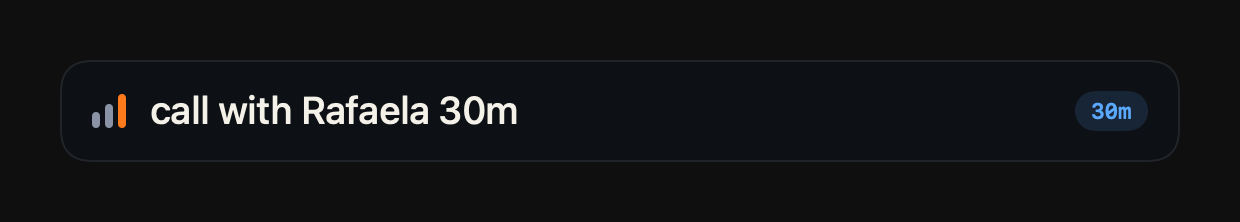
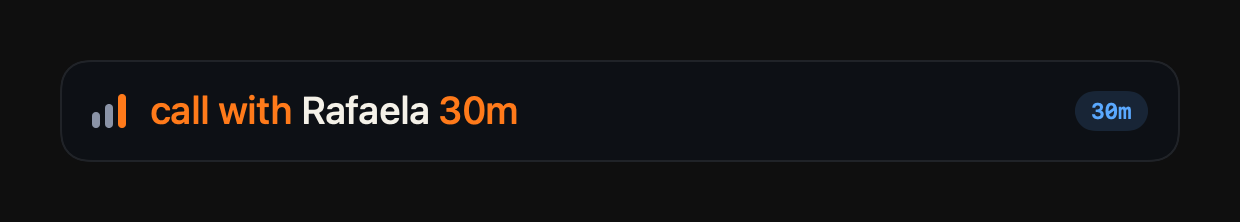
Quick add colors what it recognised; drop the "est" labels
- The line's opener ("call with") and its trailing duration render in the
  accent while you type, so a command is visible the moment it lands.
  SwiftUI's TextField paints one colour at a time, so the field is an AppKit
  NSTextField underneath, recoloured in the field editor's own storage to keep
  the caret and selection intact. allowsEditingTextAttributes is what stops
  the editor flattening the attributed string back to one colour on focus.
- Parsing now returns the ranges it used, so the highlighter and the parser
  can't drift apart, and the headless renderer paints the same colours.
- Row chips drop the "est " prefix — grey is the estimate, coloured is the
  actual, and the words were doing nothing the colour wasn't.
- Dev hook: `Volume --quickadd "<line>"` opens the panel prefilled.

Changed region(s): [[0.1226, 0.4324, 0.2452, 0.5676], [0.3371, 0.4324, 0.429, 0.5676]]

diff --git a/Sources/Volume/QuickAdd.swift b/Sources/Volume/QuickAdd.swift
@@ -40,9 +40,10 @@ final class QuickAdd: NSObject, NSWindowDelegate {
         if panel != nil { close() } else { show() }
     }
 
-    func show() {
+    func show(prefill: String = "") {
         guard let store, panel == nil else { return }
         let view = QuickAddView(
+            initialText: prefill,
             onAdd: { [weak self] kind, title, minutes in
                 switch kind {
                 case .task: store.addPlanned(title: title, estimateMin: minutes)
@@ -132,7 +133,6 @@ struct QuickAddView: View {
     let onCancel: () -> Void
 
     @State private var text: String
-    @FocusState private var focused: Bool
 
     init(initialText: String = "", onAdd: @escaping (Kind, String, Int) -> Void, onCancel: @escaping () -> Void) {
         self.onAdd = onAdd
@@ -140,25 +140,24 @@ struct QuickAddView: View {
         _text = State(initialValue: initialText)
     }
 
-    private var parsed: (kind: Kind, title: String, minutes: Int)? { Self.parse(text) }
+    private var line: QuickAddLine { QuickAddParser.read(text) }
 
     var body: some View {
+        let parsed = line
         HStack(spacing: 12) {
             BarsGlyph()
             if Theme.isRendering {
-                Text(text.isEmpty ? "task + time" : text)
+                Text(text.isEmpty
+                     ? AttributedString("task + time")
+                     : AttributedString(QuickAddSyntax.attributed(text)))
                     .font(.system(size: 19, weight: .medium))
-                    .foregroundStyle(Theme.text)
+                    .foregroundStyle(text.isEmpty ? Theme.faint : Theme.text)
                     .frame(maxWidth: .infinity, alignment: .leading)
             } else {
-                TextField("task + time", text: $text)
-                    .textFieldStyle(.plain)
-                    .font(.system(size: 19, weight: .medium))
-                    .foregroundStyle(Theme.text)
-                    .focused($focused)
-                    .onSubmit { submit() }
+                HighlightedField(text: $text, onSubmit: submit, onCancel: onCancel)
+                    .frame(maxWidth: .infinity)
             }
-            if let p = parsed {
+            if let p = parsed.result {
                 Chip(text: TimeParse.format(p.minutes),
                      color: p.kind == .call ? Theme.call : Theme.accent)
             }
@@ -169,38 +168,95 @@ struct QuickAddView: View {
         .background(Theme.bg, in: RoundedRectangle(cornerRadius: 14))
         .overlay(RoundedRectangle(cornerRadius: 14).strokeBorder(Theme.hairline))
         .environment(\.colorScheme, Theme.mode)
-        .onAppear {
-            DispatchQueue.main.asyncAfter(deadline: .now() + 0.05) { focused = true }
-        }
         .onExitCommand { onCancel() }
     }
 
     private func submit() {
-        guard let p = parsed else { return }
+        guard let p = line.result else { return }
         onAdd(p.kind, p.title, p.minutes)
     }
 
+    static func parse(_ raw: String) -> (kind: Kind, title: String, minutes: Int)? {
+        QuickAddParser.read(raw).result
+    }
+}
+
+/// What the parser makes of one line — including where it found the parts, so
+/// the field can color exactly the runs it is going to act on.
+struct QuickAddLine {
+    var kind: Kind = .task
+    var title = ""
+    var minutes: Int?
+    /// The "call with" that turns this into a meeting.
+    var openerRange: NSRange?
+    /// The duration lifted off the end.
+    var durationRange: NSRange?
+
+    var accentRanges: [NSRange] { [openerRange, durationRange].compactMap { $0 } }
+
+    var result: (kind: Kind, title: String, minutes: Int)? {
+        guard let minutes, !title.isEmpty else { return nil }
+        return (kind, title, minutes)
+    }
+}
+
+enum QuickAddParser {
     /// A line that opens with "call with" (or the obvious variants) is a
     /// meeting: it lands as call time, already done, instead of an estimate
     /// waiting in Up next.
-    private static let callOpeners = ["call with", "call w/", "meeting with", "meeting w/"]
+    static let callOpeners = ["call with", "call w/", "meeting with", "meeting w/"]
 
     /// "review creatives 1h 30m" → (.task, "review creatives", 90). Tries the
     /// last two tokens as a duration first, then the last one.
-    static func parse(_ raw: String) -> (kind: Kind, title: String, minutes: Int)? {
-        let tokens = raw.split(whereSeparator: \.isWhitespace).map(String.init)
-        guard tokens.count >= 2 else { return nil }
-        let opener = tokens.joined(separator: " ").lowercased()
-        let kind: Kind = callOpeners.contains(where: opener.hasPrefix) ? .call : .task
-        for take in [2, 1] where tokens.count > take {
-            let tail = Array(tokens.suffix(take))
-            if take == 2, !validTwoTokenTail(tail[0], tail[1]) { continue }
-            if let m = TimeParse.minutes(from: tail.joined(separator: " ")) {
-                let title = tokens.dropLast(take).joined(separator: " ")
-                if !title.isEmpty { return (kind, title, m) }
-            }
+    static func read(_ raw: String) -> QuickAddLine {
+        var line = QuickAddLine()
+
+        let indent = raw.prefix { $0.isWhitespace }
+        let body = String(raw.dropFirst(indent.count)).lowercased()
+        for opener in callOpeners where body.hasPrefix(opener) {
+            line.kind = .call
+            line.openerRange = NSRange(location: indent.utf16.count, length: opener.utf16.count)
+            break
         }
-        return nil
+
+        let words = tokens(raw)
+        guard words.count >= 2 else { return line }
+        for take in [2, 1] where words.count > take {
+            let tail = Array(words.suffix(take))
+            if take == 2, !validTwoTokenTail(tail[0].text, tail[1].text) { continue }
+            guard let m = TimeParse.minutes(from: tail.map(\.text).joined(separator: " ")) else { continue }
+            let title = words.dropLast(take).map(\.text).joined(separator: " ")
+            if title.isEmpty { continue }
+            line.title = title
+            line.minutes = m
+            let start = tail[0].range.location
+            line.durationRange = NSRange(location: start,
+                                         length: tail[take - 1].range.upperBound - start)
+            break
+        }
+        return line
+    }
+
+    /// Words with their place in the line, so a run can be colored where it sits.
+    private static func tokens(_ raw: String) -> [(text: String, range: NSRange)] {
+        var out: [(String, NSRange)] = []
+        var start: String.Index?
+        var i = raw.startIndex
+        while i < raw.endIndex {
+            if raw[i].isWhitespace {
+                if let s = start {
+                    out.append((String(raw[s..<i]), NSRange(s..<i, in: raw)))
+                    start = nil
+                }
+            } else if start == nil {
+                start = i
+            }
+            i = raw.index(after: i)
+        }
+        if let s = start {
+            out.append((String(raw[s...]), NSRange(s..<raw.endIndex, in: raw)))
+        }
+        return out
     }
 
     /// "1h" + "30m" or "2" + "hours" are one duration; "4" + "30m" is not —
@@ -210,5 +266,117 @@ struct QuickAddView: View {
         let aHasUnit = a.contains(where: \.isLetter)
         let bHasDigit = b.contains(where: \.isNumber)
         return bIsUnitWord || (aHasUnit && bHasDigit)
+    }
+}
+
+/// One place that decides how a line looks, used by the live field and by the
+/// headless renderer alike.
+enum QuickAddSyntax {
+    static let font = NSFont.systemFont(ofSize: 19, weight: .medium)
+
+    static var base: [NSAttributedString.Key: Any] {
+        [.font: font, .foregroundColor: NSColor(Theme.text)]
+    }
+
+    static func attributed(_ raw: String) -> NSAttributedString {
+        let s = NSMutableAttributedString(string: raw, attributes: base)
+        apply(to: s)
+        return s
+    }
+
+    static func apply(to storage: NSMutableAttributedString) {
+        let all = NSRange(location: 0, length: storage.length)
+        storage.setAttributes(base, range: all)
+        for r in QuickAddParser.read(storage.string).accentRanges where r.upperBound <= storage.length {
+            storage.addAttribute(.foregroundColor, value: NSColor(Theme.accent), range: r)
+        }
+    }
+}
+
+/// SwiftUI's TextField paints one color at a time, so the recognised parts of
+/// the line — the opener, the duration — need an AppKit field underneath.
+struct HighlightedField: NSViewRepresentable {
+    @Binding var text: String
+    var onSubmit: () -> Void
+    var onCancel: () -> Void
+
+    func makeNSView(context: Context) -> NSTextField {
+        let field = NSTextField()
+        field.isBordered = false
+        field.drawsBackground = false
+        field.focusRingType = .none
+        field.font = QuickAddSyntax.font
+        field.delegate = context.coordinator
+        field.cell?.usesSingleLineMode = true
+        field.cell?.wraps = false
+        field.cell?.isScrollable = true
+        // Without this the field editor flattens the attributed string back to
+        // one colour the moment editing starts.
+        field.allowsEditingTextAttributes = true
+        field.setContentHuggingPriority(.defaultLow, for: .horizontal)
+        field.setContentCompressionResistancePriority(.defaultLow, for: .horizontal)
+        field.placeholderAttributedString = NSAttributedString(
+            string: "task + time",
+            attributes: [.font: QuickAddSyntax.font, .foregroundColor: NSColor(Theme.faint)])
+        field.attributedStringValue = QuickAddSyntax.attributed(text)
+        return field
+    }
+
+    func updateNSView(_ field: NSTextField, context: Context) {
+        context.coordinator.parent = self
+        if field.stringValue != text {
+            field.attributedStringValue = QuickAddSyntax.attributed(text)
+        }
+        if !context.coordinator.tookFocus {
+            context.coordinator.tookFocus = true
+            DispatchQueue.main.async {
+                field.window?.makeFirstResponder(field)
+                // Taking first responder selects the whole line; put the caret
+                // at the end so you carry on typing instead of overwriting.
+                let end = (field.stringValue as NSString).length
+                field.currentEditor()?.selectedRange = NSRange(location: end, length: 0)
+                context.coordinator.recolor(field)
+            }
+        }
+    }
+
+    func makeCoordinator() -> Coordinator { Coordinator(self) }
+
+    final class Coordinator: NSObject, NSTextFieldDelegate {
+        var parent: HighlightedField
+        var tookFocus = false
+
+        init(_ parent: HighlightedField) { self.parent = parent }
+
+        func controlTextDidChange(_ note: Notification) {
+            guard let field = note.object as? NSTextField else { return }
+            parent.text = field.stringValue
+            recolor(field)
+        }
+
+        /// Recolors the field editor in place: replacing the whole string would
+        /// drop the caret to the end on every keystroke.
+        func recolor(_ field: NSTextField) {
+            guard let editor = field.currentEditor() as? NSTextView,
+                  let storage = editor.textStorage else { return }
+            let selection = editor.selectedRange()
+            editor.insertionPointColor = NSColor(Theme.accent)
+            QuickAddSyntax.apply(to: storage)
+            editor.typingAttributes = QuickAddSyntax.base
+            editor.setSelectedRange(selection)
+        }
+
+        func control(_ control: NSControl, textView: NSTextView, doCommandBy selector: Selector) -> Bool {
+            switch selector {
+            case #selector(NSResponder.insertNewline(_:)):
+                parent.onSubmit()
+                return true
+            case #selector(NSResponder.cancelOperation(_:)):
+                parent.onCancel()
+                return true
+            default:
+                return false
+            }
+        }
     }
 }

diff --git a/Sources/Volume/Components.swift b/Sources/Volume/Components.swift
@@ -428,7 +428,7 @@ struct PlannedRow: View {
                     .lineLimit(1)
                 NoteMark(hasNotes: !isOpen && entry.notes?.isEmpty == false)
                 Spacer(minLength: 8)
-                Chip(text: "est \(TimeParse.format(entry.estimateMin ?? 0))", color: Theme.ghost)
+                Chip(text: TimeParse.format(entry.estimateMin ?? 0), color: Theme.ghost)
                 AccentButton(title: "Done", action: onDone)
             }
         } drawer: {
@@ -474,7 +474,7 @@ struct DoneRow: View {
                 NoteMark(hasNotes: !isOpen && entry.notes?.isEmpty == false)
                 Spacer(minLength: 8)
                 if entry.kind == .task, let est = entry.estimateMin {
-                    Chip(text: "est \(TimeParse.format(est))", color: Theme.ghost)
+                    Chip(text: TimeParse.format(est), color: Theme.ghost)
                 }
                 if let act = entry.actualMin {
                     Chip(text: TimeParse.format(act), color: resultColor)

diff --git a/Sources/Volume/VolumeApp.swift b/Sources/Volume/VolumeApp.swift
@@ -25,6 +25,16 @@ struct VolumeApp: App {
         let s = Store()
         _store = StateObject(wrappedValue: s)
         QuickAdd.shared.configure(store: s)
+        // Dev hook: open the quick-add panel straight away, prefilled, so its
+        // syntax colouring can be reviewed without reaching for the hotkey.
+        if let i = CommandLine.arguments.firstIndex(of: "--quickadd") {
+            let line = CommandLine.arguments.indices.contains(i + 1) ? CommandLine.arguments[i + 1] : ""
+            // After the main window has settled, or it takes key back and the
+            // panel closes itself on resign.
+            DispatchQueue.main.asyncAfter(deadline: .now() + 1.5) {
+                QuickAdd.shared.show(prefill: line)
+            }
+        }
         CalendarSync.shared.configure(store: s)
         s.tagPending()
     }

diff --git a/README.md b/README.md
@@ -64,9 +64,11 @@ Type `review creatives 30m`, Enter. Tab opens the full app.
 
 ![Quick add](assets/screenshots/quickadd.png)
 
-Open the line with `call with …` (or `meeting with …`) and it logs as call time
-already done, rather than an estimate waiting in Up next. The chip turns blue
-so you can see which one you're about to get.
+The field colors what the parser recognised — the opener that makes it a
+meeting, the duration it lifts off the end — so you can see the command land as
+you type it. Open the line with `call with …` (or `meeting with …`) and it logs
+as call time already done, rather than an estimate waiting in Up next; the chip
+turns blue so you can see which one you're about to get.
 
 ![Quick add, meeting](assets/screenshots/quickadd-call.png)
 
